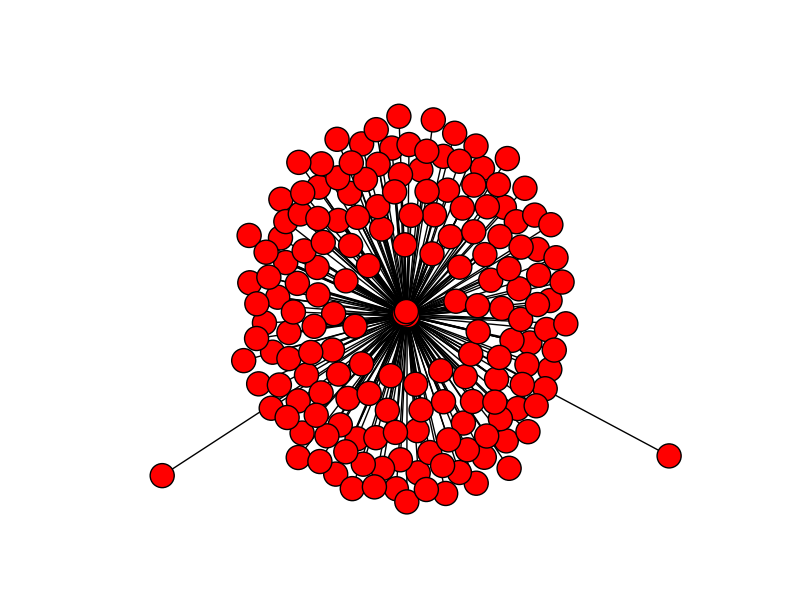
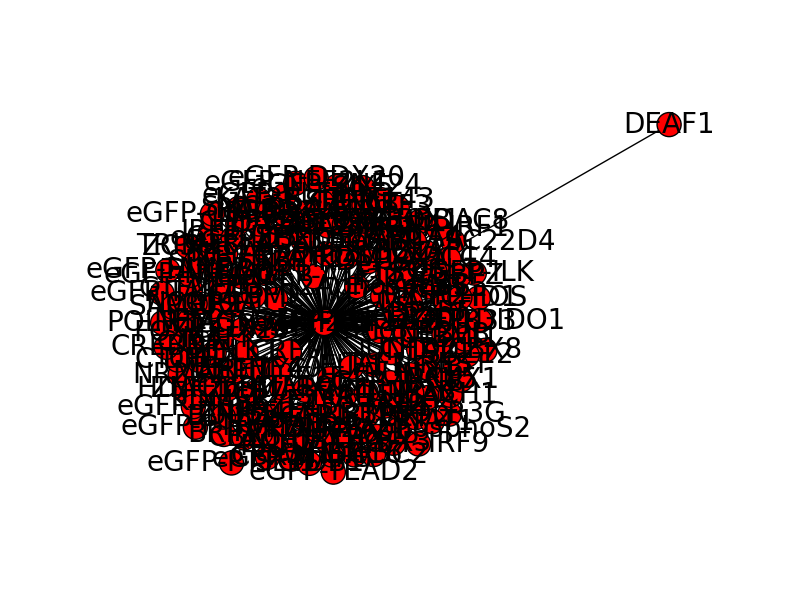
updates

diff --git a/src/create_network.py b/src/create_network.py
@@ -32,5 +32,5 @@ def run(figures):
     plt.axis('off')
     nx.draw_networkx_nodes(G, pos)
     nx.draw_networkx_edges(G, pos, edgelist=elarge)
-    nx.draw_networkx_labels(G,pos,font_size=20,font_family='sans-serif')
+    nx.draw_networkx_labels(G,pos,font_size=8,font_family='sans-serif')
     plt.savefig(figures+'network.png')
